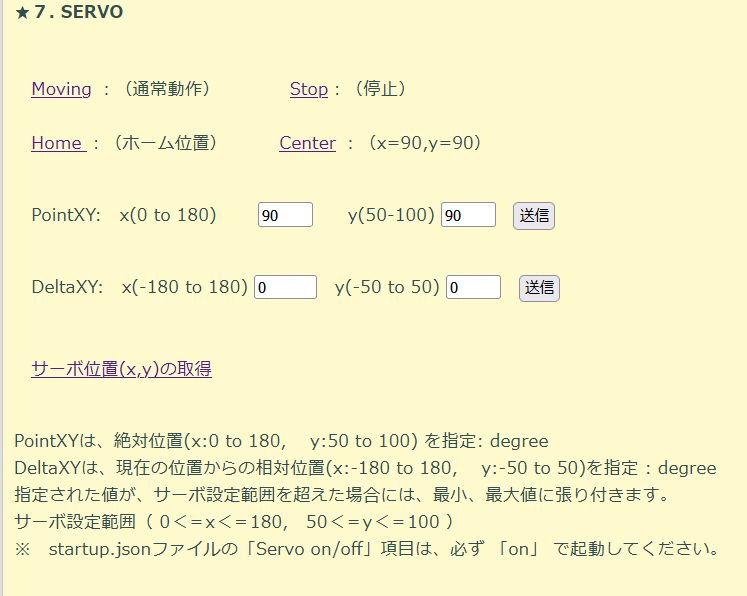
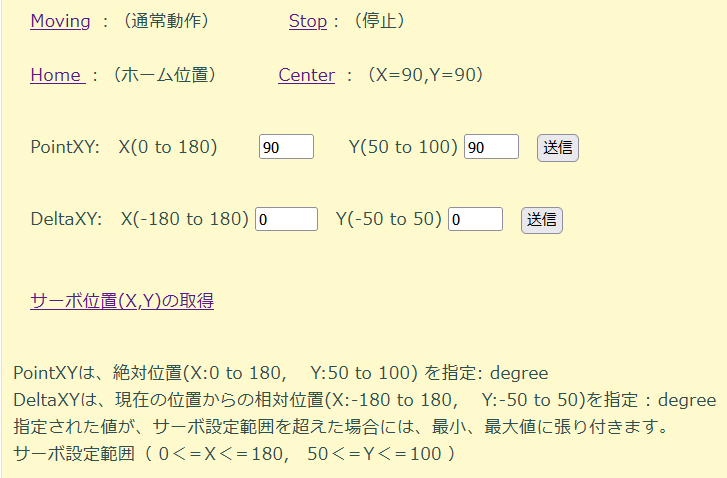
v110b

diff --git a/INSTALL/index.html b/INSTALL/index.html
@@ -339,27 +339,27 @@ ttsSelect：　
   <br>
   　<a href="http://xxx.xxx.xxx.xxx/servo?mode=home" target="StackChan">Home </a>
   ：（ホーム位置）　　　<a href="http://xxx.xxx.xxx.xxx/servo?mode=center" target="StackChan">Center</a>
-  ：（x=90,y=90）
+  ：（X=90,Y=90）
   <br><br>
   <p>
    <form action="http://xxx.xxx.xxx.xxx/servo" method="get">
-    　PointXY:　x(0 to 180)　　 <input type="text" name="pointX" value="90" size="3" maxlength="3" />　　y(50-100) <input type="text"
+    　PointXY:　X(0 to 180)　　 <input type="text" name="pointX" value="90" size="3" maxlength="3" />　　Y(50 to 100) <input type="text"
         name="pointY" value="90" size="3" maxlength="3" />　<input type="submit" value="送信" />
   </form>
   </p>
   <p>
   <form action="http://xxx.xxx.xxx.xxx/servo" method="get">
-  <br>　DeltaXY:　x(-180 to 180) <input type="text" name="deltaX" value="0" size="4" maxlength="4" />　y(-50 to 50) <input type="text"
+  <br>　DeltaXY:　X(-180 to 180) <input type="text" name="deltaX" value="0" size="4" maxlength="4" />　Y(-50 to 50) <input type="text"
   name="deltaY" value="0" size="3" maxlength="3" />　<input type="submit" value="送信" />
 </form>
 <br><br> 
-  　<a href="http://xxx.xxx.xxx.xxx/servo?tx=xy" target="StackChan">サーボ位置(x,y)の取得 </a>
+  　<a href="http://xxx.xxx.xxx.xxx/servo?tx=xy" target="StackChan">サーボ位置(X,Y)の取得 </a>
   <br><br>
 <p>
-PointXYは、絶対位置(x:0 to 180,　 y:50 to 100) を指定: degree<br>
-DeltaXYは、現在の位置からの相対位置(x:-180 to 180,　 y:-50 to 50)を指定 : degree<br>
+PointXYは、絶対位置(X:0 to 180,　 Y:50 to 100) を指定: degree<br>
+DeltaXYは、現在の位置からの相対位置(X:-180 to 180,　 Y:-50 to 50)を指定 : degree<br>
 指定された値が、サーボ設定範囲を超えた場合には、最小、最大値に張り付きます。<br>
-サーボ設定範囲（ 0＜＝x＜＝180,　50＜＝y＜＝100 ）<br>
+サーボ設定範囲（ 0＜＝X＜＝180,　50＜＝Y＜＝100 ）<br>
 <br>
 ※注意：startup.jsonファイルの「servo」項目が「off」の場合は、サーボ機能は動作しません。<br>
 

diff --git a/src/AiStackChanEx.h b/src/AiStackChanEx.h
@@ -17,6 +17,20 @@ Adafruit_NeoPixel pixels(NUM_LEDS, PIN, NEO_GRB + NEO_KHZ800); // 800kHzでNeoPi
 #define EX_WK_CNT_MAX 10           // 「わかりません」が何回連続すると初期化するか
 #define EX_SHUTDOWN_MIN_TM 3
 
+
+// --- v110
+void sv_setX(int x);
+void sv_setY(int y);
+void sv_setXY(int x, int y);
+void EX_servo(void *args);
+void EX_handle_servo();
+void EX_handle_setting();
+void EX_report_batt_level();
+void EX_RandomSpeakOperation();
+void EX_ServoOperation();
+void EX_SpeechText1st();
+void EX_SpeechTextNext();
+
 // --- v109
 bool EX_StartSetting();
 
@@ -40,7 +54,7 @@ bool EX_setGetStrToStartSetting(const char *item, DynamicJsonDocument &startupJs
 
 // --- v106
 void EX_handle_sysInfo();
-void EX_handle_setting();
+// void EX_handle_setting();
 bool EX_apiKeySetup();
 bool EX_apiKeyTxt();
 bool EX_apiKeyFmNVS();

diff --git a/README.md b/README.md
@@ -19,15 +19,16 @@
 - **（New）SERVOコントロール**(moving,Stop,Home,Center,XY指定など)
 - **（New）KeyLock**機能の追加
 - ネットワークから全ての制御・機能の設定
-- いつでも３つのTTS切替え **VOICEVOX / VoiceText / GoogleTTS**
-- WEBからスマホ・アプリ相当の設定・操作ができる
-- システム情報の表示・取得
-- 言語切替え（表示・発音）：　日本語/英語モード
-- サーボOn/off、　ポートは、portA/portC 両方に対応
-- お好みのスタックチャンで起動させることができます。      
+- お好みのスタックチャンで起動できる      
  「顔だけ」、「省エネ」、「英語」、「いきなり独り言」、     
  「消音深夜デバック用」等のサンプル設定を提供(SAMPLEフォルダ)   
-- 動作制御   
+- いつでも３つのTTS切替え **VOICEVOX / VoiceText / GoogleTTS**
+- 言語の切替え（画面表示・発音）：　日本語/英語モード
+- WEBからスマホ・アプリ相当の設定・操作ができる
+- システム情報の表示と取得
+- サーボ・ポートは、portA / portC 両方に対応。
+- サーボを使用しないときには、offにして電力消費を抑えることができる。
+- 主な動作制御   
   Servoコントロール:　moving/stop/home/center/pointXY/deltaXY  
   keyLock: on/off  
   TTS切替え: VOICEVOX/voiceText/GoogleTTS  
@@ -40,7 +41,7 @@
   LED ： on/off  
   mute： on/off  
   Shutdown / Reboot  
-- スタートアップ時の動作を指定できます。  
+- 主なスタートアップ時の指定  
  TTS選択: VOICEVOX/voiceText/GoogleTTS  
  voicevoxSpeakerNo: (-1 to 66) 、-1は最後の設定   
  randomSpeak：on/off  
@@ -51,6 +52,7 @@
  volume( -1 to 255 )、-1は最後の設定  　
 - WiFi接続の拡張  
 複数のAccessPointを登録し優先順に接続を試みる  
+（自宅ルータ、テザリング、外出先での接続などが簡単）  
 固定IPモードとDHCPの両方に対応  
 - 「わかりません」対策（エラー時の発声・表示を含む）
 - コンパイル時のwarinig解消
@@ -73,12 +75,12 @@
 - VoiceText を使用の場合には、APIキーを取得していないと動きません。（個人の新規取得は現在できない）  
 - VOICEVOX を使用の場合には、APIキーを取得し必ず登録してください。
 - 使用ファイル(wifi-select.json,startup.json, index.html)は、INSTALLフォルダに雛形を用意しました。
-- startup.json, index.html は、ソフトVersionUpに伴い変更されます。最新をご使用ください。
-- 設定ファイルは、破損に備えて必ずバックアップを取ってください。
+- startup.json, index.html は、バージョンアップに伴い変更されます。最新のものをご使用ください。
 - 様々な設定のサンプルをSAMPLEフォルダに用意しています。ご活用ください。
-- IPアドレスを「192.168.0.100」として記述していますが、各自読み替えてください。
-- ソフトの改変・公開は、自由にご活用してください。<br>
-  　公開の際は、Twitter@NoRi_230401　に、ご連絡いただければ幸いです。<br>
+- 設定したファイルは、破損に備えて必ずバックアップを取ってください。
+- 説明で、IPアドレスを「192.168.0.100」として記述している箇所は、各自の接続状況に合わせて読み替えてください。
+- ソフトの改変・公開は、大歓迎です。自由にご活用ください。<br>
+  公開の際は、Twitter@NoRi_230401　まで、ご連絡いただければ幸いです。<br>
 <br>    
 
 ### インストール手順
@@ -118,15 +120,18 @@ https://notes.yh1224.com/stackchan-connect/
 <br>
 
 ・ **AiStackChanExの全ての機能は、WEB画面より簡単に使用することができます。**  
-PC等のWEBアドレス入力欄に、IPアドレスを入力すると専用画面が起動。
+PC等のWEBアドレス入力欄に、IPアドレスを入力すると専用画面が起動。  
+　　　（例） http://192.168.0.100/
 
 <br>
 
 ・ **外部インターフェースを利用すると、さらに応用が広がります。**   
-仕様を公開しています。応用が広がります<br>
-（例）iPhone/iPadによる音声コマンドで様々な操作が可能、その他<br>
+仕様を公開しています。様々な活用方法があり、応用が広がります<br>
+（例）iPhone/iPadによる音声コマンドで操作が可能、その他いろいろな機能満載<br>
 AIｽﾀｯｸﾁｬﾝ v2.00i & more：@tie2さん作成<br>
-https://twitter.com/tie2/status/1655260749848252416/
+https://twitter.com/tie2/status/1655260749848252416/  
+
+**きっとこの便利さに衝撃を受けると思います。**
 
 <br><br>
 ---
@@ -163,7 +168,7 @@ http://192.168.0.100/servo?mode=stop
 Home（ホームに移動）  
 http://192.168.0.100/servo?mode=home
 
-Center（x=90,　 y=90　に移動）  
+Center（X=90,　 Y=90　に移動）  
 http://192.168.0.100/servo?mode=center
 
 PointXY(X,Yの位置に移動：絶対位置指定) degree  
